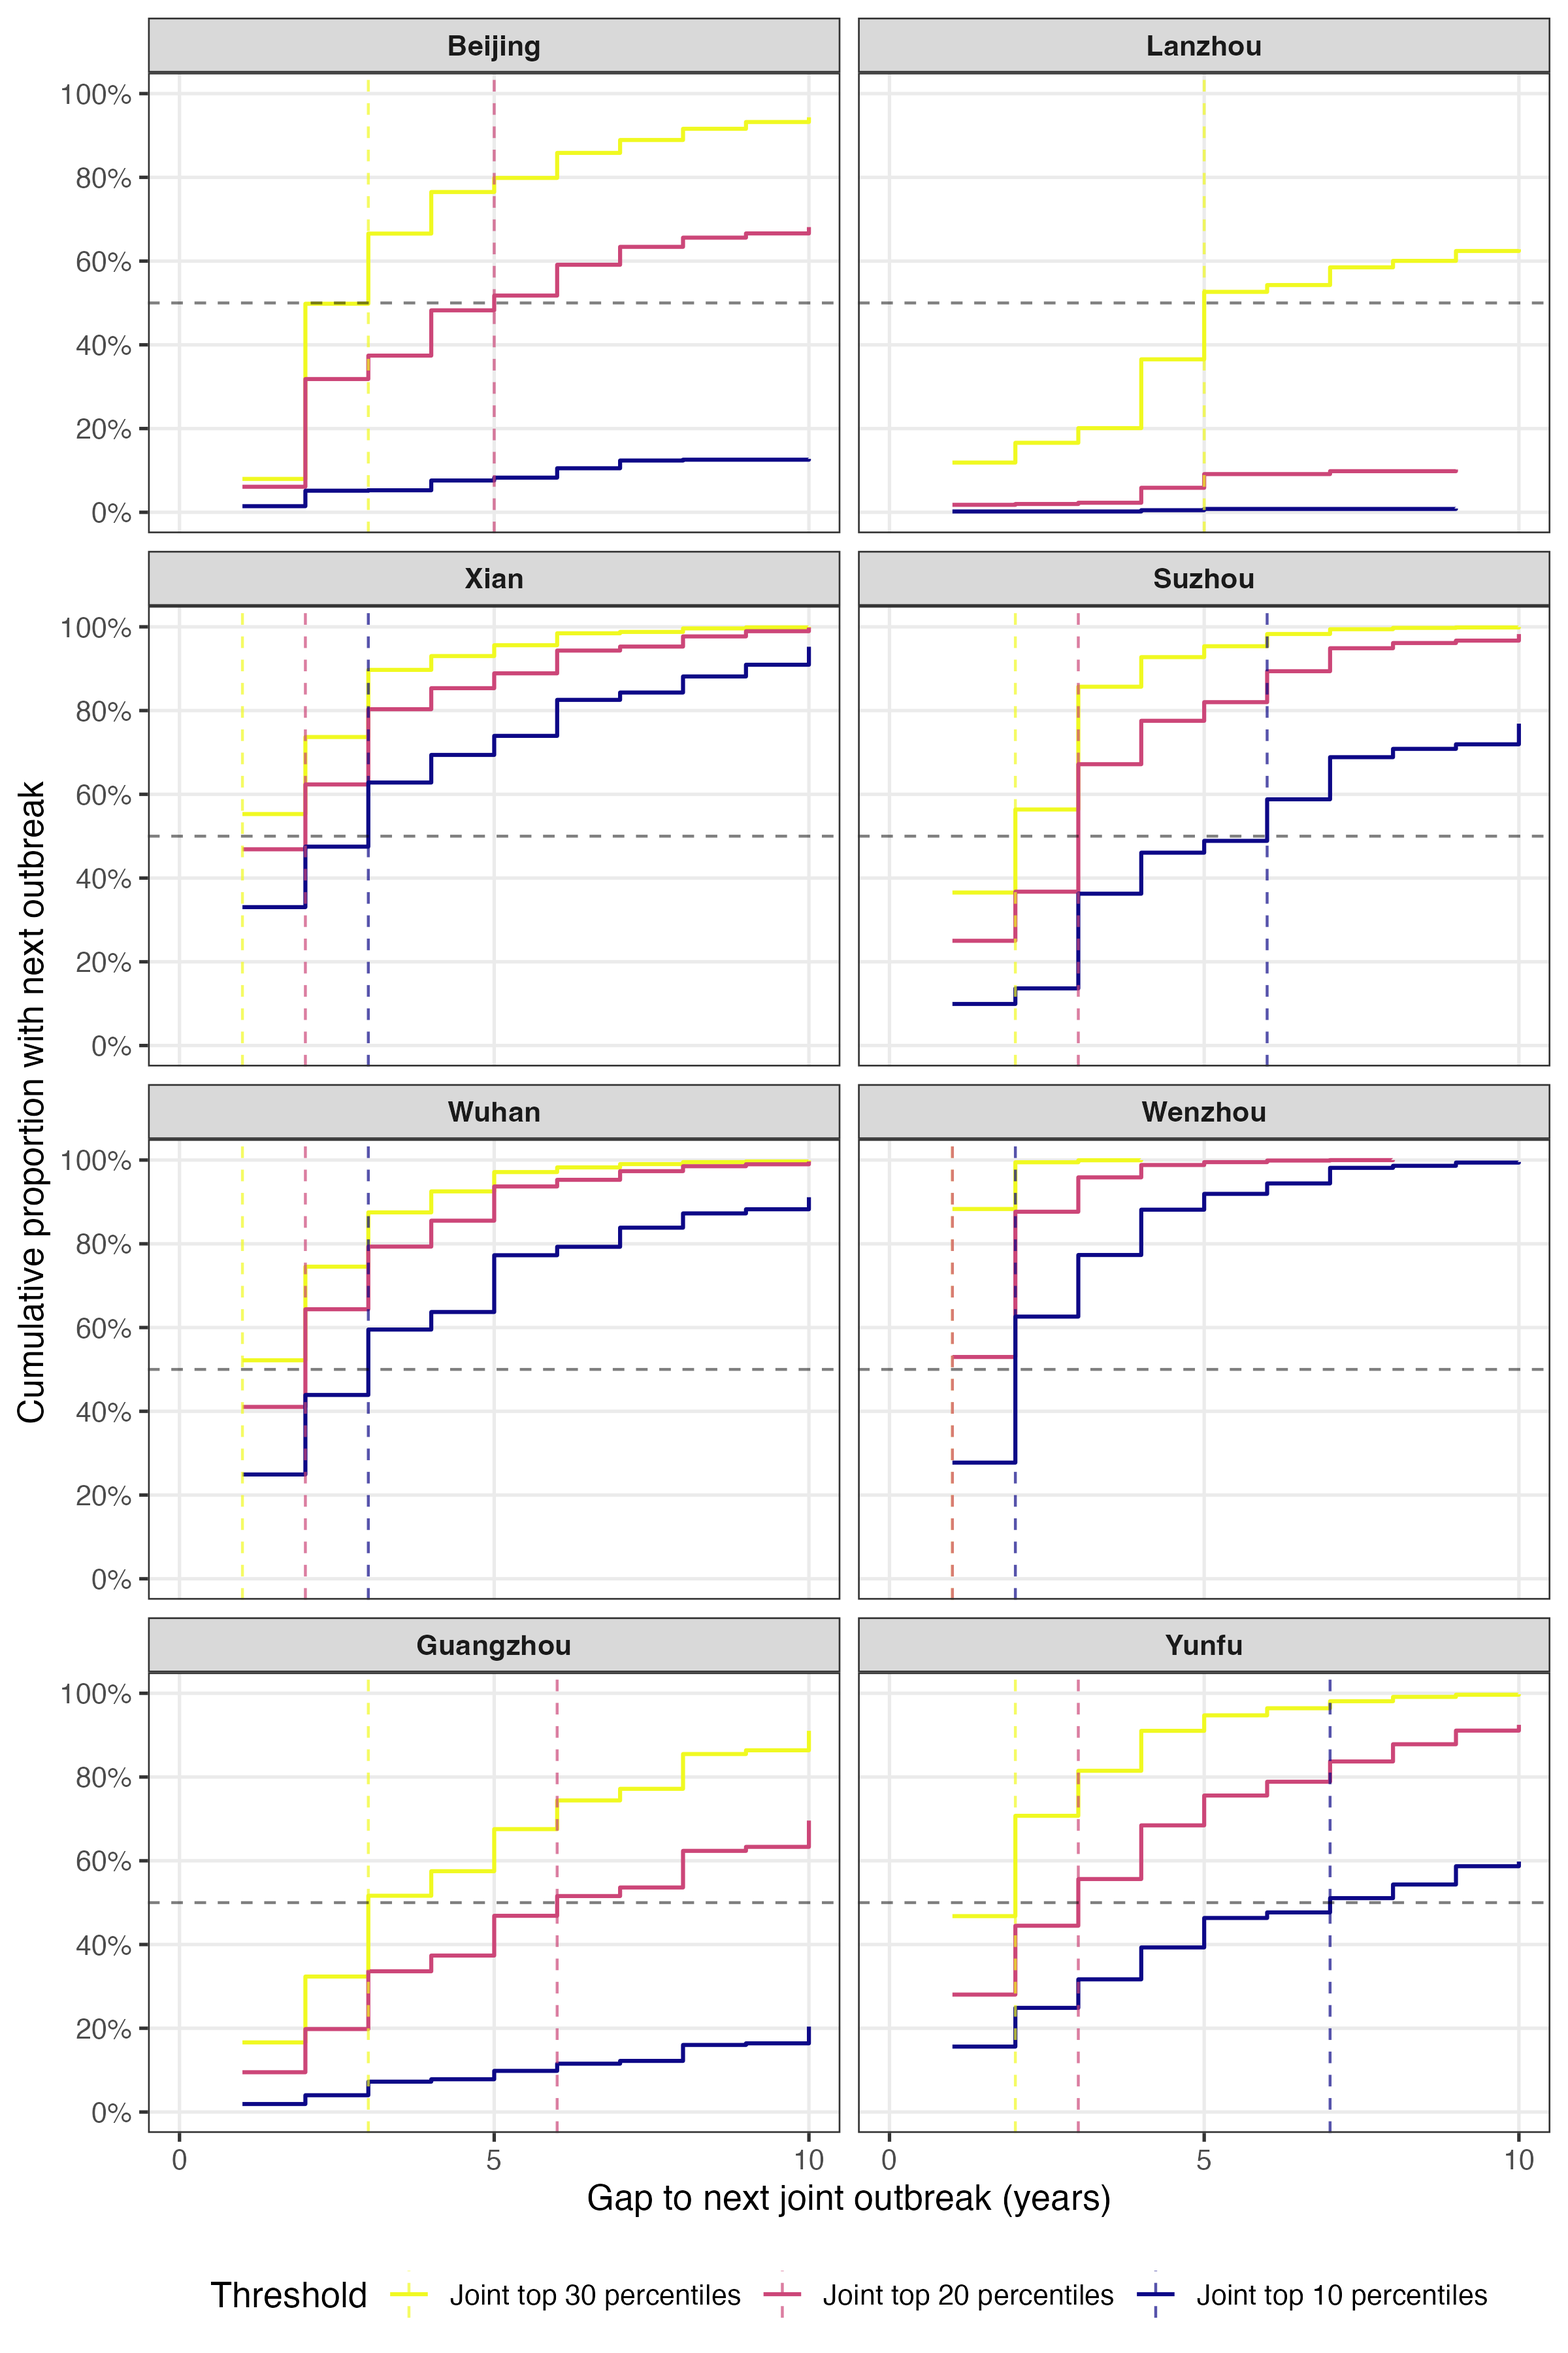
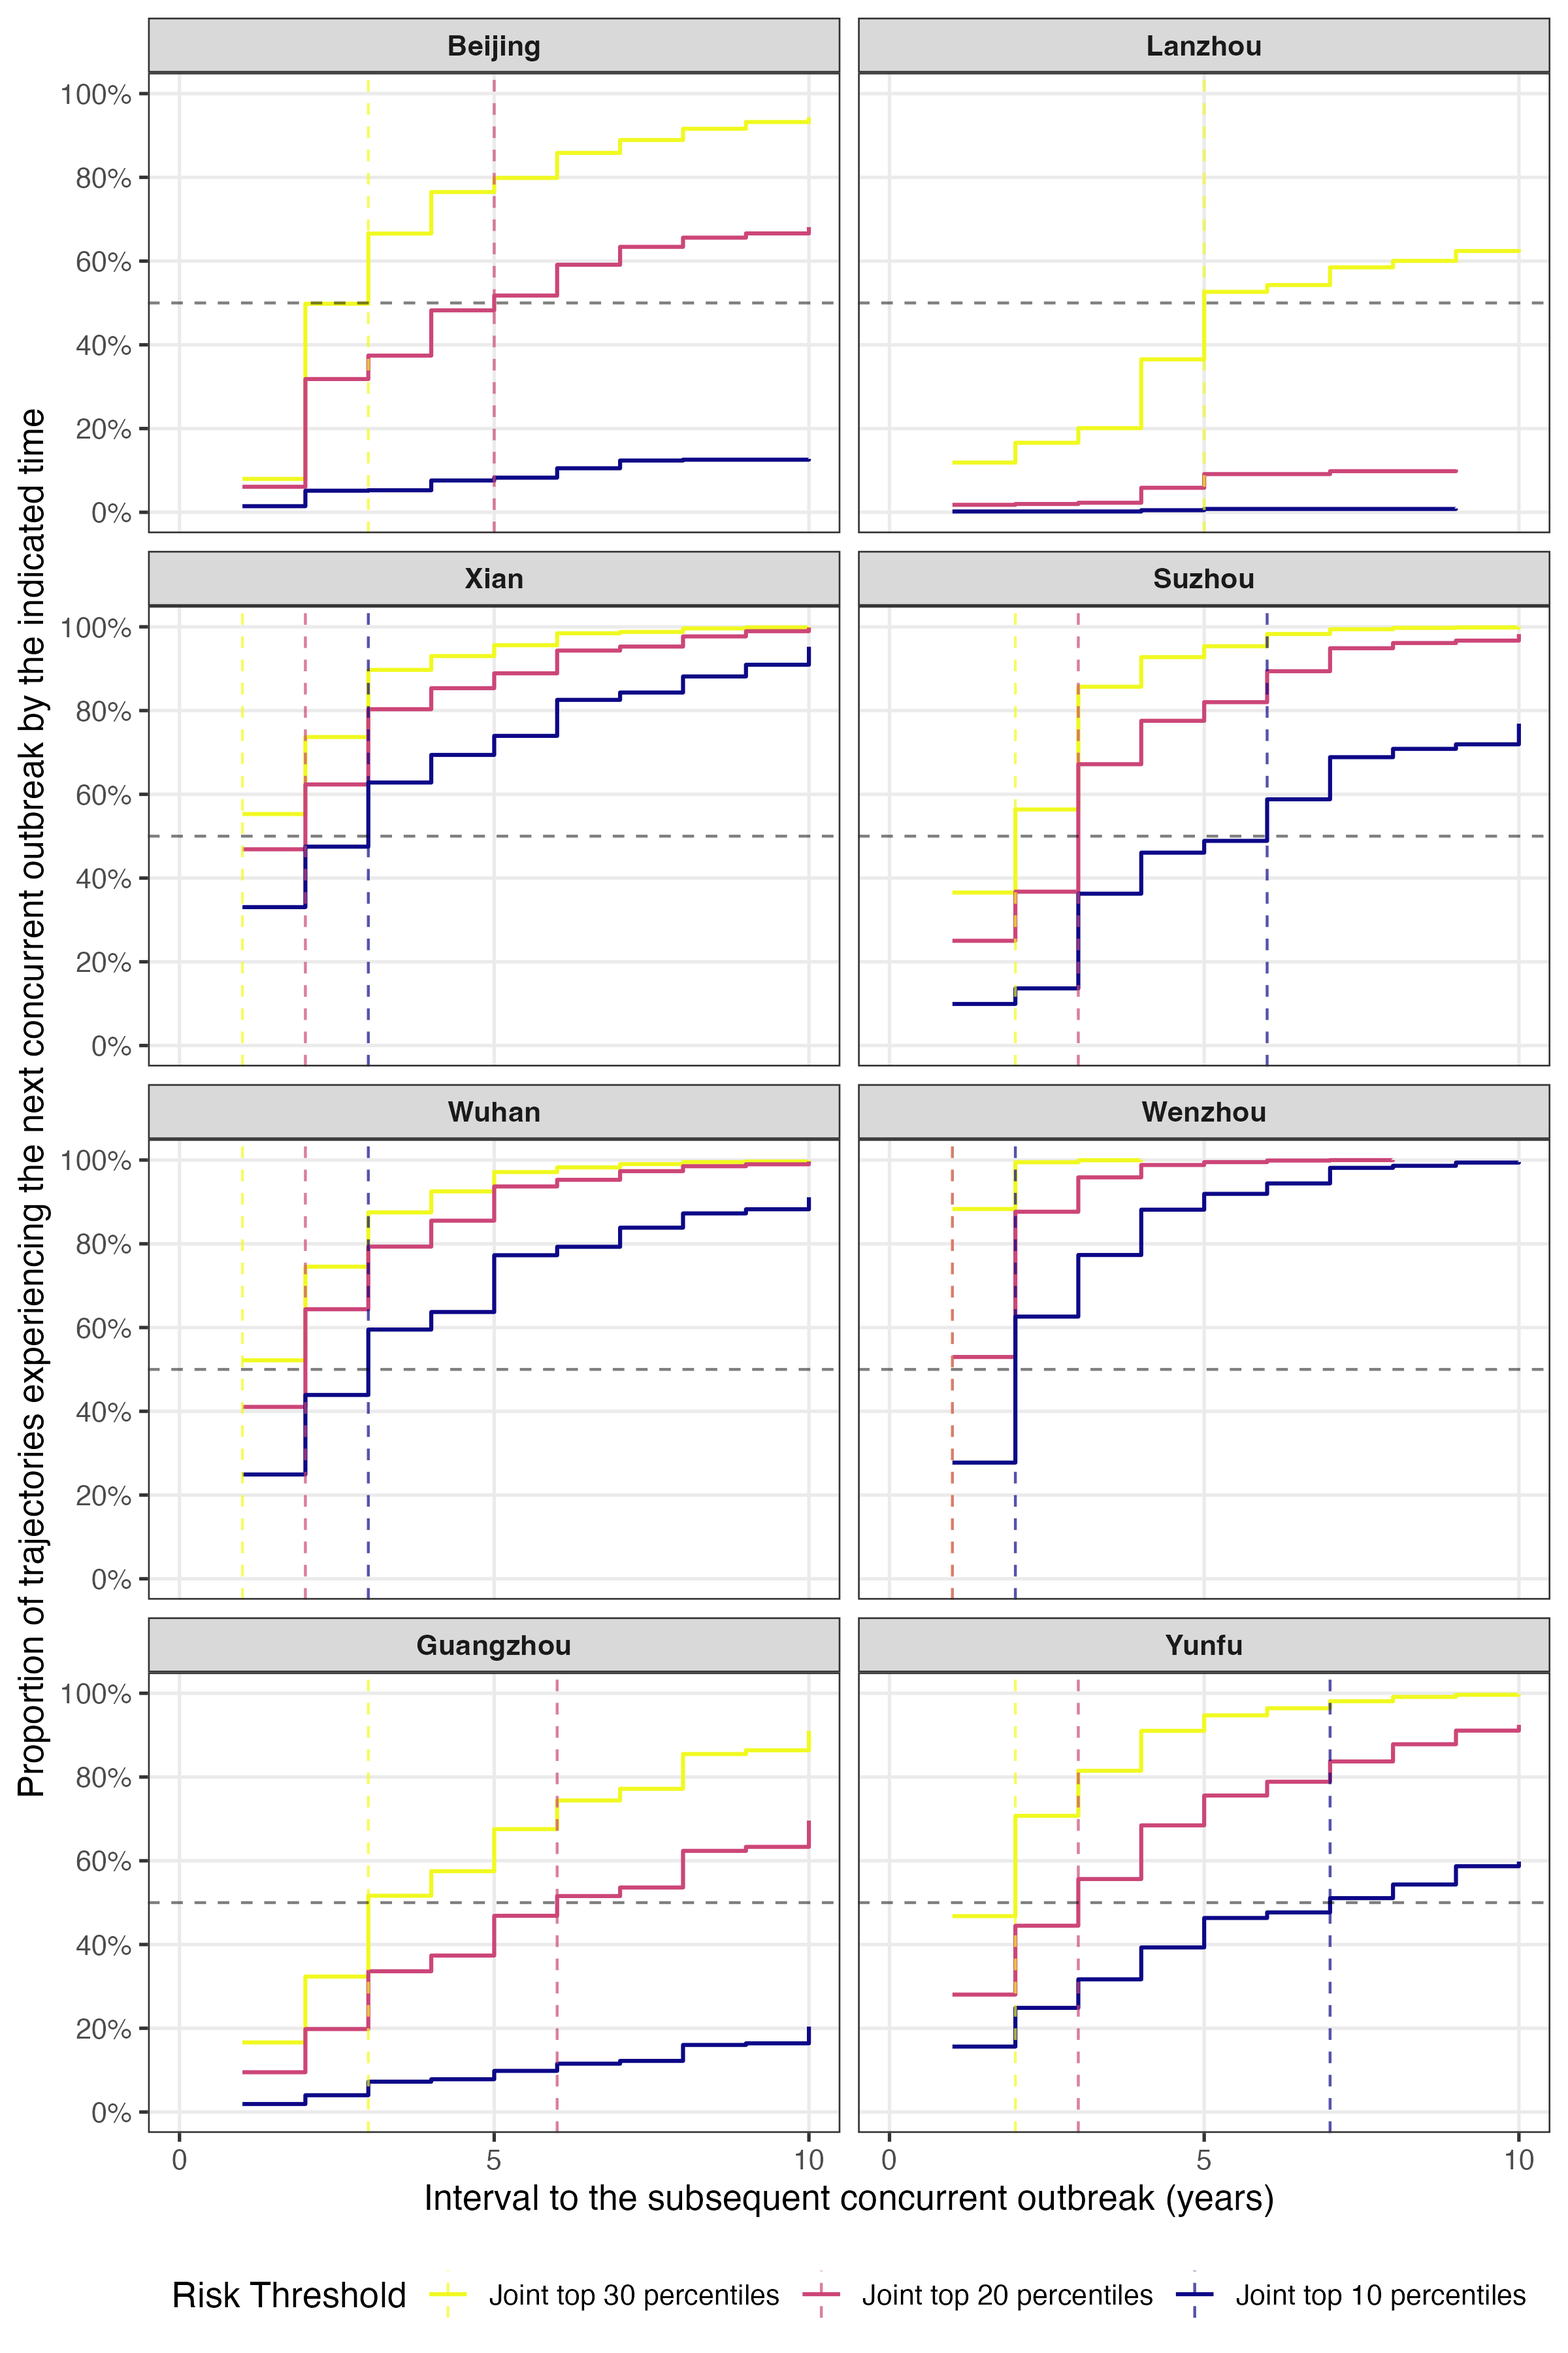
Improve results section: refine figure captions and text clarity
- Update Figure 3 caption: fix grammar (belongs→belong), typo (coverted→converted)
- Clarify optimal vs comparable models distinction in results text
- Improve precision: "reflect" (present tense), "estimated lengths" specification
- Enhance Figure 5 caption: add detail on simulation trajectories and thresholds
- Enhance Figure 6 caption: add comprehensive description of survival analysis
- Update Figure 6 axis labels:
  * x-axis: "Interval to the subsequent concurrent outbreak (years)"
  * y-axis: "Proportion of trajectories experiencing the next concurrent outbreak by the indicated time"
- Add tidyr library to figure generation script
- Regenerate figure6.png with updated labels

diff --git a/writing/sections/03_results.tex b/writing/sections/03_results.tex
@@ -5,7 +5,7 @@
 \begin{figure}[H]
 \centering
 \includegraphics[width=0.8\textwidth]{../figures/fig2_v3.png}
-\caption{The association between within-year cycle lengths and Akaike Information Criterion (AIC) values by pathogen and city. Each purple point represents a model with only within-year cycles. Each boxplot represents the distribution of AIC values for models with the corresponding within-year cycle length and the full range of between-year cycle lengths tested.}
+\caption{The association between within-year cycle lengths and Akaike Information Criterion (AIC) values by pathogen and city. Each purple point represents a model with only within-year cycles. Each Tukey boxplot represents the distribution of AIC values for models with the corresponding within-year cycle length and the full range of between-year cycle lengths tested.}
 \label{fig:fig2}
 \end{figure}
 
@@ -19,9 +19,9 @@ Thus, for seasonal influenza and RSV, significant between-year cycles may improv
 
 For RSV, the relationship between within-year cycle length and AIC was often U-shaped, with the minimum at ~12 months, indicating a best-fitting annual cycle across many city–pathogen combinations. 
 In contrast, seasonal influenza showed a less consistent pattern: the AIC minimum frequently deviated from 12 months, implying that the optimal seasonal period is not strictly annual. 
-This could reflect time-varying or heterogeneous periodicity (e.g., episodes of slightly shorter or longer cycles that average to $\approx$ 12 months over the long term) or stochastic variation, despite long-term epidemiology appearing annual.
+This could reflect time-varying or heterogeneous periodicity (e.g., episodes of slightly shorter or longer cycles that average to $\approx$ 12 months over the long term) or unaccounted-for variation (e.g., due to factors not included in the model), despite long-term epidemiology appearing annual.
 
-In several panels, the AIC values near the minimum were very densely distributed (i.e. small dispersion), indicating that multiple model specifications produce comparably performing models.
+In several panels, the AIC values near the minimum were very densely distributed (i.e. small dispersion), indicating that several model specifications (from up to 90 MSTL model specifications) produce comparably performing models.
 Accordingly, in forward simulations and concurrent outbreak analysis, we carried forward both the optimal models and their comparable models ($\Delta$AIC $< 7$).
 The number of comparable models for influenza ranged from 2 (in Xi'an, Lanzhou, Wenzhou, and Yunfu) to 20 (in Wuhan and Beijing); that for RSV ranged from 2 (in Wenzhou and Yunfu) to 39 in Beijing.
 The full list detailing the number of comparable models by city and pathogen is available in the Supplementary Material (Table S1).
@@ -29,23 +29,23 @@ The full list detailing the number of comparable models by city and pathogen is 
 \begin{figure}[H]
 \centering
 \includegraphics[width=0.8\textwidth]{../figures/fig3_v4_update_comparable.jpg}
-\caption{Seasonal component analysis and geographic patterns.}
+\caption{Seasonal component analysis and geographic patterns. (A) The optimal within-year cycle lengths estimated from MSTL models; (B) The optimal between-year cycle lengths estimated from MSTL models. As such, the corresponding cells in (A) and (B) belong to the same model specification; (C) The length of time series (converted to days to characterise temporal coverage); (D) The unit of time series (in their original scale); (E) Comparison of between-year cycle lengths among comparable models by geographic region (North vs South) and by pathogen (Influenza vs RSV).}
 \label{fig:fig3}
 \end{figure}
 
 The optimal within-year cycle lengths and between-year cycle lengths for each city and pathogen combination are presented in \hyperref[fig:fig3]{Figure 3} (A) and (B).
-These results reflected only the optimal models—their comparable models are not included.
+These results reflect only the optimal models (the single best-performing model with lowest AIC per city-pathogen combination); their comparable models (those with ΔAIC < 7) are not included.
 Similar to the results presented in \hyperref[fig:fig2]{Figure 2}, most within-year cycles were approximately 12 months for RSV and were not strictly annual for seasonal influenza.
 The between-year cycles selected for the optimal models were much more variable.
-These results are not strongly associated with the length of the time series (\hyperref[fig:fig3]{Figure 3}(C)) or their temporal resolution (\hyperref[fig:fig3]{Figure 3}(D)).
+The estimated lengths of within- and between-year cycles are not strongly associated with the length of the time series (\hyperref[fig:fig3]{Figure 3}(C)) or their temporal resolution (\hyperref[fig:fig3]{Figure 3}(D)).
 Looking across all optimal and their comparable models, the between-year cycles for influenza had a mean of 28 months in the North and 27 months in the South; those for RSV had a median of 25 months in the North and 28 months in the South (\hyperref[fig:fig3]{Figure 3}(E)). 
-These differences are not statistically significant by region for either pathogen, likely because of small sample size and thus limited statistical power.
+These differences are not statistically significant by region for either pathogen, which may be explained by small sample size and thus limited statistical power.
 The between-year cycles were highly variable (i.e. IQR > 6 months) for Suzhou (influenza), Wuhan (RSV) and Guangzhou (RSV) (see Supplementary Material Figure S1). 
 
 \begin{figure}[H]
 \centering
 \includegraphics[width=0.8\textwidth]{../figures/figure5.png}
-\caption{Proportion of years having concurrent outbreaks of seasonal influenza and RSV under different risk thresholds by city.}
+\caption{Proportion of years with concurrent outbreaks of seasonal influenza and RSV under different risk thresholds by city. Distributions are based on 1000 forward simulation trajectories using both the optimal and comparable models. Risk thresholds are defined by joint exceedance of the 70th, 80th, and 90th percentiles (corresponding to the top 30\%, 20\%, and 10\%) of each city's observed disease burden history for both pathogens. Each ridge plot shows the density of the per-trajectory proportion of projected years with concurrent outbreaks (one proportion per simulation trajectory), calculated over the available projection horizon for each city--pathogen time series.}
 \label{fig:fig4}
 \end{figure}
 
@@ -60,7 +60,8 @@ A complete table of median values of distributions presented in \hyperref[fig:fi
 \begin{figure}[H]
 \centering
 \includegraphics[width=0.8\textwidth]{../figures/figure6.png}
-\caption{Interval to the subsequent concurrent outbreak of seasonal influenza and RSV under different risk thresholds by city.}
+\caption{Cumulative probability of the next concurrent outbreak of seasonal influenza and RSV as a function of time since the most recent concurrent outbreak, by city. Curves are estimated from 1000 forward simulation trajectories using both optimal and comparable models. Risk thresholds are defined by joint exceedance of the 70th, 80th, and 90th percentiles (corresponding to the top 30\%, 20\%, and 10\%) of each city’s observed disease burden history for both pathogens. Vertical dashed lines indicate the median interval to the next concurrent outbreak for each threshold, and the horizontal dashed line marks the 50\% probability level.}
+
 \label{fig:fig6}
 \end{figure}
 

diff --git a/writing/sections/04_discussion.tex b/writing/sections/04_discussion.tex
@@ -97,7 +97,7 @@ This would not be the case in tropical regions, where seasonal patterns may be l
 Second, we used only one measure of disease burden per city and per pathogen.
 In practice, multiple measures of disease burden may be available (e.g., hospitalisations, deaths, outpatient visits, test positivity rates, etc.).
 Pooling all available information could improve our understanding of the underlying cycles and enhance prediction accuracy, but such harmonisation would require careful consideration of the underlying surveillance systems and their biases.
-Third, while we tested the predictive power of within- and between-year cycles, the underlying mechanisms driving these cycles warrant further investigation.
+›isms driving these cycles warrant further investigation.
 Finally, the longest between-year cycle we tested was 36 months, constrained by the available time-series data.
 Longer-term data made possible by electronic health systems may allow us to test for even longer cycles in the future.
 
